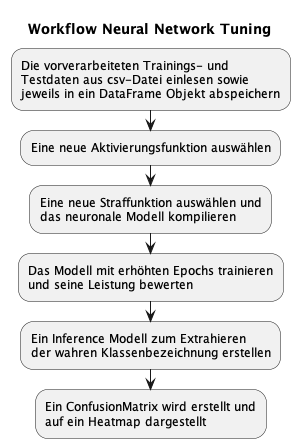
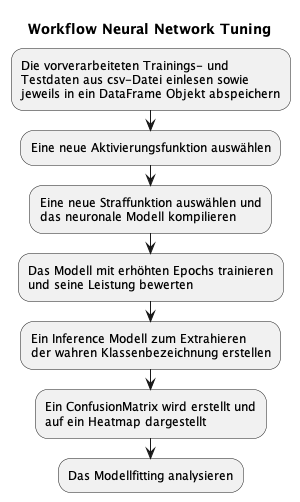
CheckModelFit implemented - Script amended - Workflow updated

Changed region(s): [[0.03, 0.0312, 0.99, 1.0], [0.09, 0.9062, 0.12, 0.9375]]

diff --git a/Neural_Networks_Tuning/src/neural_networks_analysis_tuning.py b/Neural_Networks_Tuning/src/neural_networks_analysis_tuning.py
@@ -1,5 +1,6 @@
 import setup_utils_path
 from utils.src.data_utils import ReadCSVDataset
+from utils.src.result_utils import CheckModelFit
 from utils.src.result_utils import CreateVisualizeConfusionMatrix
 import tensorflow as tf
 import pandas as pd
@@ -104,3 +105,13 @@ y_pred = inference_model.predict(X_test_std)
 
 # Einen Confusion Matrix und abschließend ein Heatmap erstellen
 CreateVisualizeConfusionMatrix(y_test=y_test, y_predicted=y_pred)
+
+# -----------------------------------------------------
+# Das Modellfitting analysieren
+# -----------------------------------------------------
+# Die Leistung des Modells mit den Testdaten bewerten
+loss_test, acc_test = model.evaluate(X_test_std, y_test)
+
+# Bestimme das Modellfitting und gebe es auf das Terminal aus
+fit, threshold = CheckModelFit(acc_train*100, acc_test*100)
+print(f"Optimized Neural Networks: {fit}; underfit threshold = {threshold}%")
